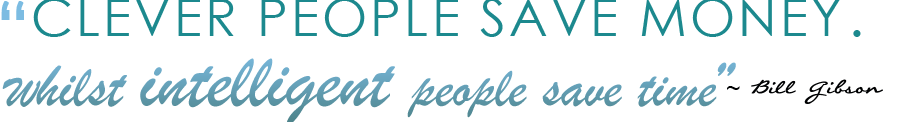
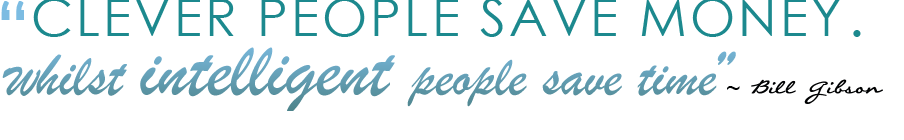
Home page visual tweaks

Changed region(s): [[0.0, 0.3429, 0.8363, 0.8857], [0.0619, 0.4, 0.0929, 0.4286]]

diff --git a/SPortal ASP version/SPortal/css/baseCSS.css b/SPortal ASP version/SPortal/css/baseCSS.css
@@ -183,7 +183,7 @@ a {
     float: left;
     background-color: #457a7c;
     width: 69%;
-    height: 10%;
+    height: 8%;
     background-image: url("../images/info3_wordGraphic.png");
 }
 

diff --git a/SPortal ASP version/SPortal/css/component.css b/SPortal ASP version/SPortal/css/component.css
@@ -9,7 +9,7 @@
 
 .grid li {
 	display: inline-block;
-	width: 380px;
+	width: 378px;
 	margin: 0;
 	text-align: left;
 	position: relative;
